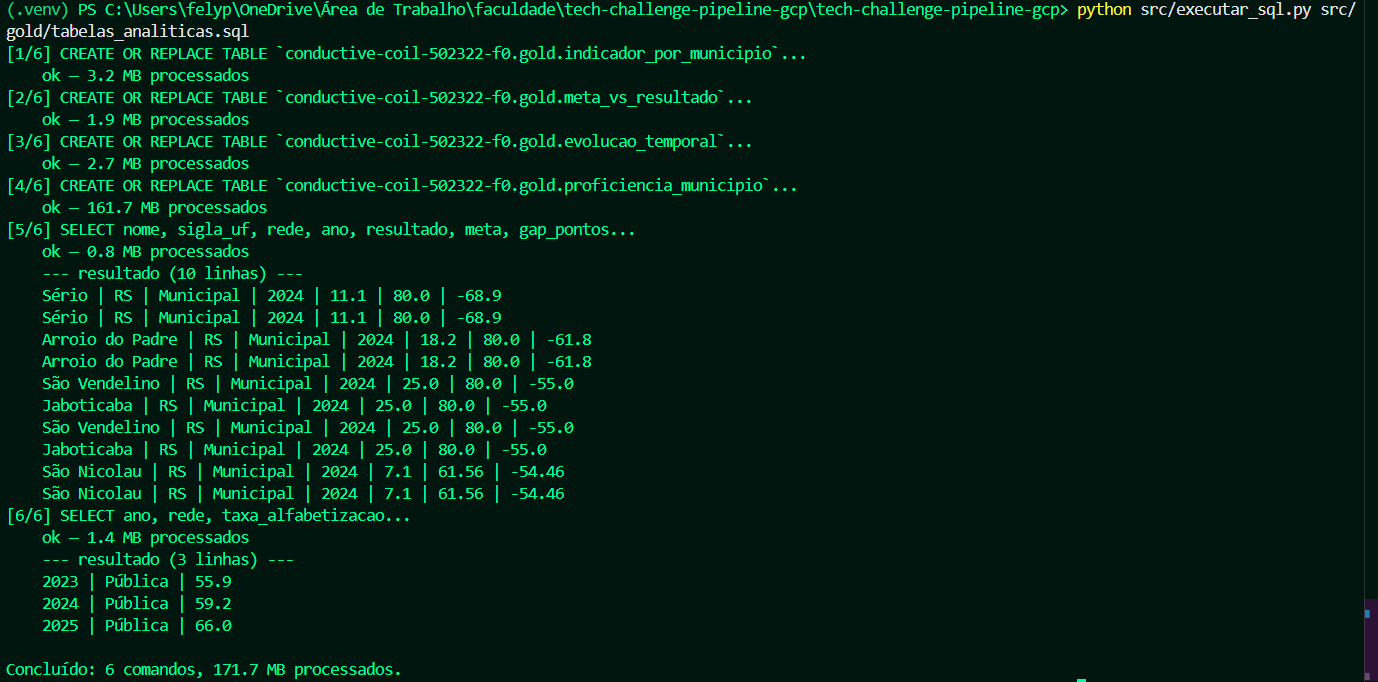
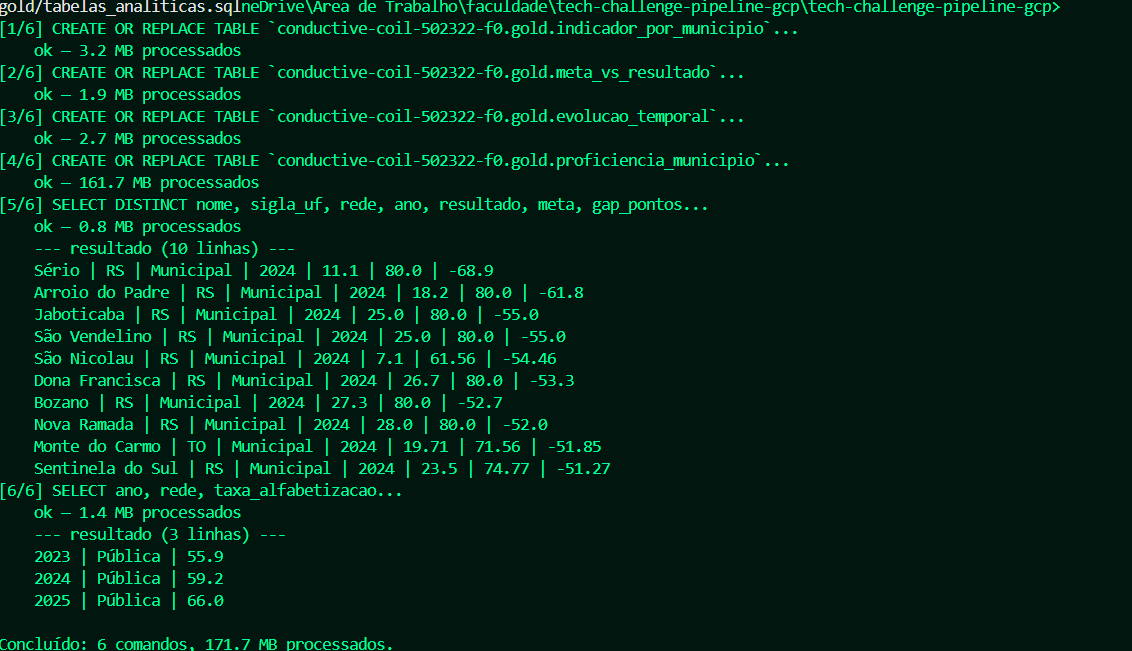
docs: atualiza print do top 10 com resultado deduplicado (DISTINCT na consulta de amostra)

Changed region(s): [[0.0, 0.0, 0.9894, 1.0], [0.9894, 0.8602, 1.0, 1.0]]

diff --git a/README.md b/README.md
@@ -165,8 +165,10 @@ python src/executar_sql.py src/monitoramento/painel.sql
 
 | Camada | Tabelas |
 |---|---|
-| ![Bronze](docs/img/tables_bigquery_bronze.png) | ![Silver](docs/img/tables_bigquery_silver.png) |
-| ![Gold](docs/img/tables_bigquery_gold.png) | ![Governança](docs/img/tables_bigquery_governanca.png) |
+| Bronze | ![Bronze](docs/img/tables_bigquery_bronze.png) |
+| Silver | ![Silver](docs/img/tables_bigquery_silver.png) |
+| Gold | ![Gold](docs/img/tables_bigquery_gold.png) |
+| Governança | ![Governança](docs/img/tables_bigquery_governanca.png) |
 
 **Streaming no Pub/Sub** (tópico e assinatura):
 